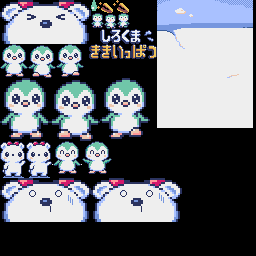
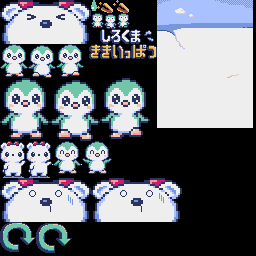
リセット表示

Changed region(s): [[0.0, 0.8438, 0.2812, 1.0]]

diff --git a/image.py b/image.py
@@ -29,6 +29,9 @@ class ImageName(IntEnum):
     Prologue_BearFace_01 = auto()
     Prologue_BearFace_02 = auto()
 
+    Reset_01 = auto()
+    Reset_02 = auto()
+
 
 class ImageInfo:
     def __init__(self, index, u, v, w, h, animate_with=None):
@@ -113,3 +116,8 @@ class ImageManager:
             0, 0, 178, 91, 44, ImageName.Prologue_BearFace_02
         )
         self.assets[ImageName.Prologue_BearFace_02] = ImageInfo(0, 91, 178, 91, 44)
+
+        self.assets[ImageName.Reset_01] = ImageInfo(
+            0, 0, 222, 36, 31, ImageName.Reset_02
+        )
+        self.assets[ImageName.Reset_02] = ImageInfo(0, 36, 222, 36, 31)

diff --git a/app.py b/app.py
@@ -282,7 +282,7 @@ class App:
         self.image.draw(ImageName.PenguinL_02, 23, 40)
 
     def show_retry(self):
-        pyxel.text(0, 0, "RETRY ", 10)
+        self.image.draw(ImageName.Reset_01, 30, 49)
 
 
 App()
